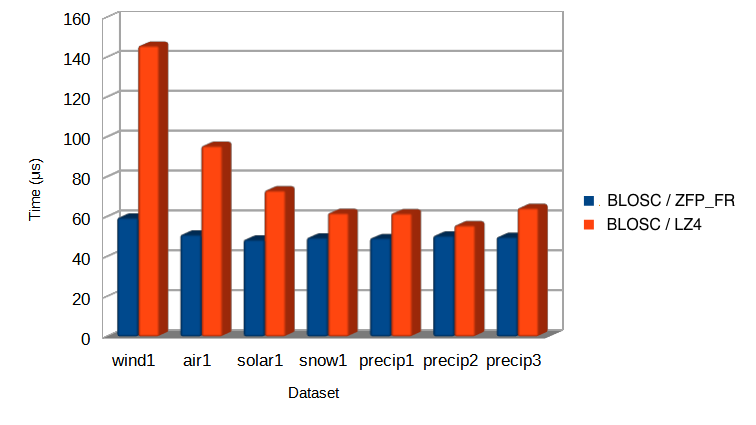
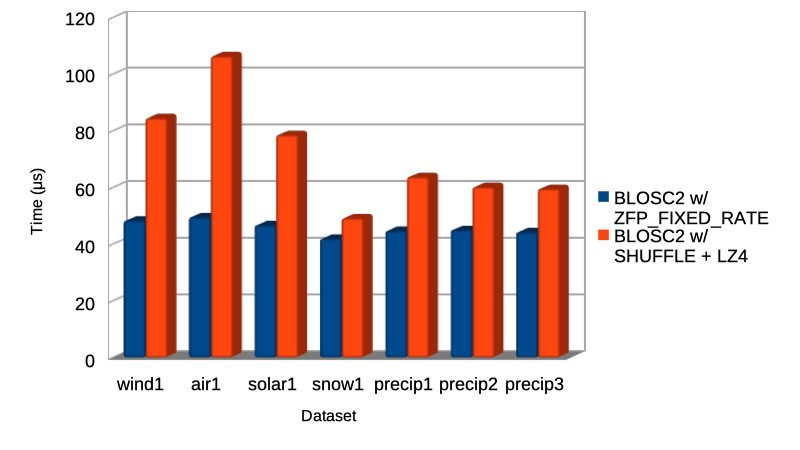
Some edits on describing the new FIXED-RATE results

diff --git a/posts/zfp-plugin.rst b/posts/zfp-plugin.rst
@@ -83,17 +83,19 @@ Also, while FIXED-ACCURACY and FIXED-RATE modes consume similar times, the FIXED
 "Third partition"
 -----------------
 
-One of the most appealing features of Caterva besides supporting multi-dimensionality, is its implementation of a second partitioning schema, `making slicing more efficient <https://www.blosc.org/posts/caterva-slicing-perf/>`_.  As one of the distinctive characteristics of ZFP is that it compresses data in independent (and small) cells, we have been toying with the idea of implementing a third partition so that slicing of thin selections or just single-point selection can be made faster.
+One of the most appealing features of Caterva besides supporting multi-dimensionality is its implementation of a second partition, `making slicing more efficient <https://www.blosc.org/posts/caterva-slicing-perf/>`_.  As one of the distinctive characteristics of ZFP is that it compresses data in independent (and small) cells, we have been toying with the idea of implementing a third partition so that slicing of thin selections or just single-point selection can be made faster.
 
-So, as part of the current ZFP implementation, we have combined the Caterva/Blosc2 partitioning (chunking and blocking) with the independent cell handling of ZFP, allowing to extract single cells within the ZFP streams (blocks in Blosc jargon). Due to the properties and limitations of the different ZFP compression modes, we have been able to implement this sort of "third partition" **only** for the *FIXED-RATE* mode, and just for the `blosc2_getitem_ctx() <https://c-blosc2.readthedocs.io/en/latest/reference/context.html?highlight=blosc_getitem#c.blosc2_getitem_ctx>`_ function. 
+So, as part of the current ZFP implementation, we have combined the Caterva/Blosc2 partitioning (chunking and blocking) with the independent cell handling of ZFP, allowing to extract single cells within the ZFP streams (blocks in Blosc jargon). Due to the properties and limitations of the different ZFP compression modes, we have been able to implement a sort of "third partition" just for the *FIXED-RATE* mode when used together with the `blosc2_getitem_ctx() <https://c-blosc2.readthedocs.io/en/latest/reference/context.html?highlight=blosc_getitem#c.blosc2_getitem_ctx>`_ function. 
 
-This combination of the existing partitioning and single cell extraction is useful for selecting more narrowly the data to extract.  For example, you can see below a comparison of the times that it takes to retrieve some single elements out of different multidimensional arrays from the ERA5 dataset (see above).  Here we have used a regular Blosc2 / LZ4 codec to compare against the new Blosc2 / ZFP_FIXED_RATE:
+Such a combination of the existing partitioning and single cell extraction is useful for selecting more narrowly the data to extract, saving time and memory.  As an example, below you can see a comparison of the mean times that it takes to retrieve a bunch of single elements out of different multidimensional arrays from the ERA5 dataset (see above).  Here we have used Blosc2 with a regular LZ4 codec compared against the FIXED-RATE mode of the new ZFP codec:
 
 .. image:: /images/zfp-plugin/zfp_fixed_rate.png
   :width: 100%
   :align: center
 
-As you can see, Blosc2 in combination with ZFP in FIXED_RATE mode allows for a good improvement in speed for retrieving single elements (or a cell-size amount of items) in comparison with the classic codecs inside Blosc2.
+As you can see, using the ZFP codec in FIXED-RATE mode allows for a good improvement in speed (up to more than 2x) for retrieving single elements (or, in general an amount not exceeding the cell size) in comparison with the existing codecs (even the fastest ones, like LZ4) inside Blosc2.  As the performance improvement is of the same order than random access time of modern SSDs, we anticipate that this could be a major win in scenarios where random access is important.
+
+If you are curious on how this new functionality performs for your own datasets and computer, you can use/adapt our `benchmark code <https://github.com/Blosc/caterva/blob/master/bench/bench_zfp_getitem.c>`_.
 
 
 Conclusions
@@ -101,6 +103,6 @@ Conclusions
 
 The integration of ZFP as a codec plugin will greatly enhance the capabilities of lossy compression inside C-Blosc2.  The current ZFP plugin supports different modes; if users want to specify data loss during compression, it is recommended to use the FIXED-ACCURACY or FIXED-PRECISION modes (and most specially the former because of its better compression performance).
 
-However, if the priority is to get good compression ratios without paying too much attention to the amount of data loss, one should use the FIXED-RATE mode, which let choose the desired compression ratio.  This mode also has the advantage that a "third partition" can be used for improving slicing speed.
+However, if the priority is to get specific compression ratios without paying too much attention to the amount of data loss, one should use the FIXED-RATE mode, which let choose the desired compression ratio.  This mode also has the advantage that a "third partition" can be used for improving random elements access speed.
 
 This work has been done thanks to a Small Development Grant from the `NumFOCUS Foundation <https://numfocus.org>`_, to whom we are very grateful indeed. NumFOCUS is doing a excellent job in sponsoring scientific projects and you can donate to the Blosc project (or many others under the NumFOCUS umbrella) via its `donation page <https://numfocus.org/support#donate>`_.
